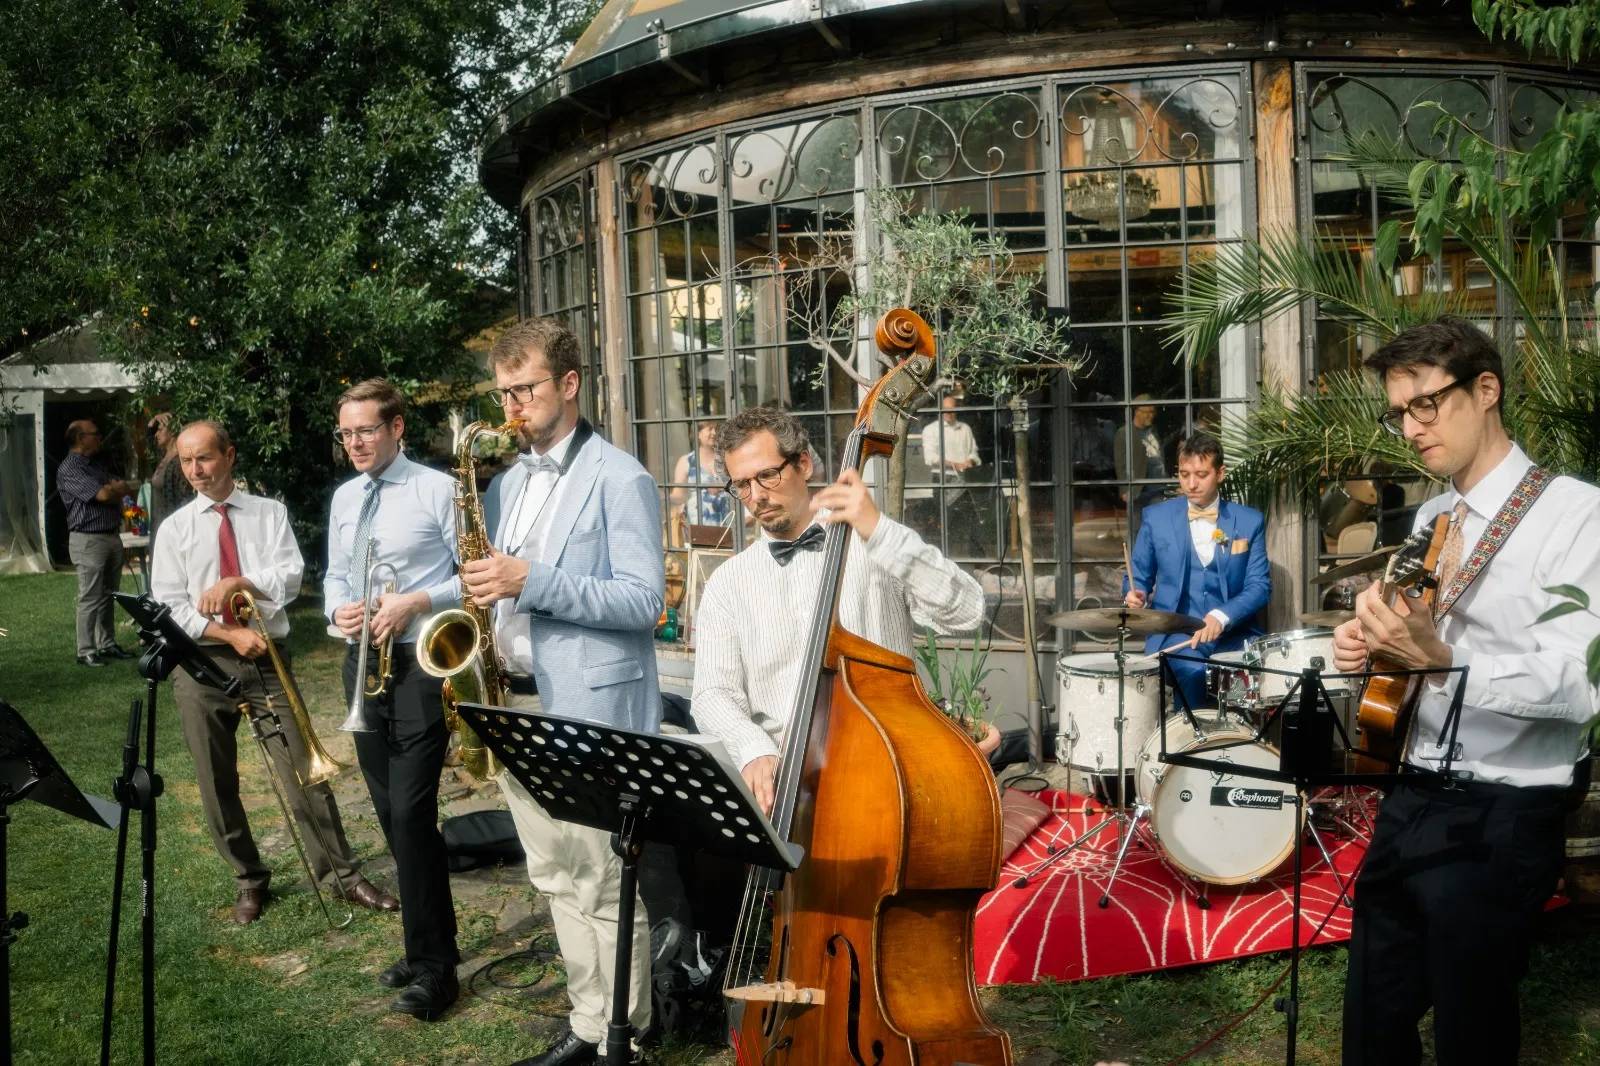
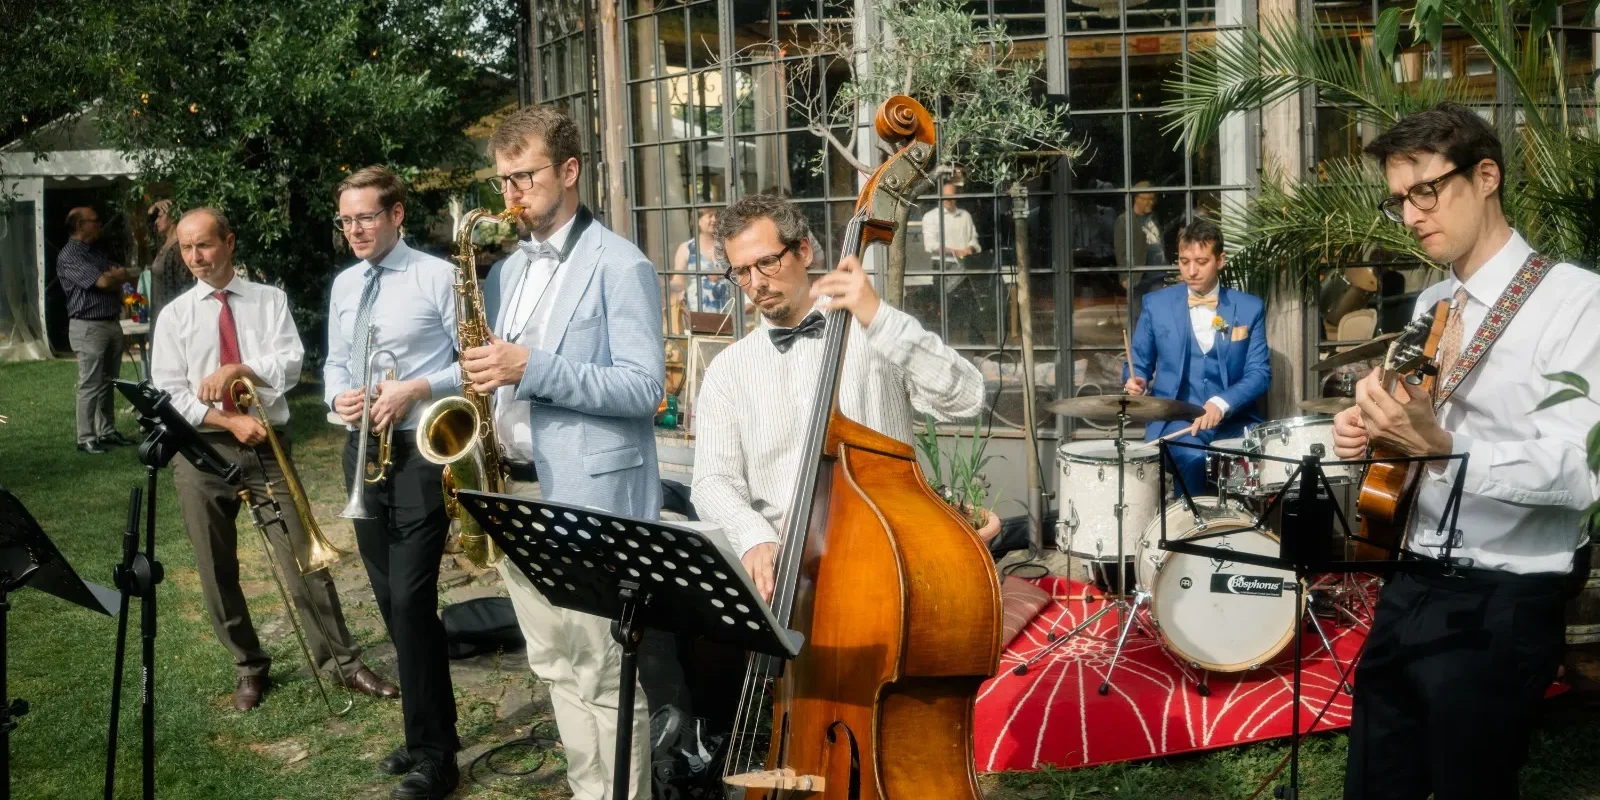
crop hero image and use full width for navigation

diff --git a/index.html b/index.html
@@ -20,7 +20,7 @@
 
 <body>
     <header class="navbar navbar-expand-lg site-nav sticky-top" data-bs-theme="dark">
-        <div class="container">
+        <div class="container-fluid px-lg-4">
             <a class="navbar-brand brand" href="#">Bruckhaufen <br> Vanguard</a>
 
             <button class="navbar-toggler" type="button" data-bs-toggle="collapse"
